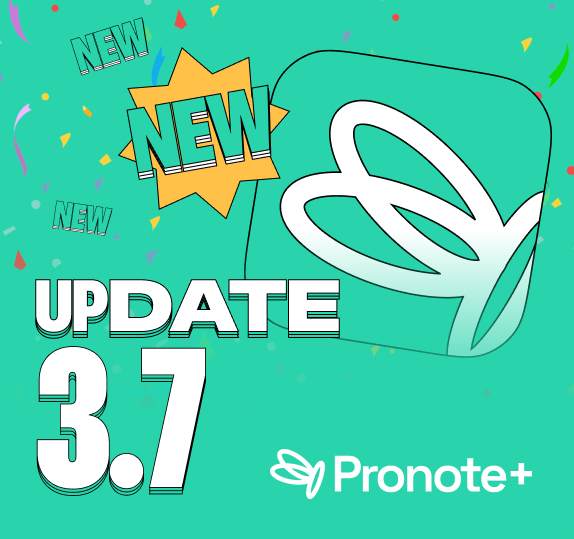
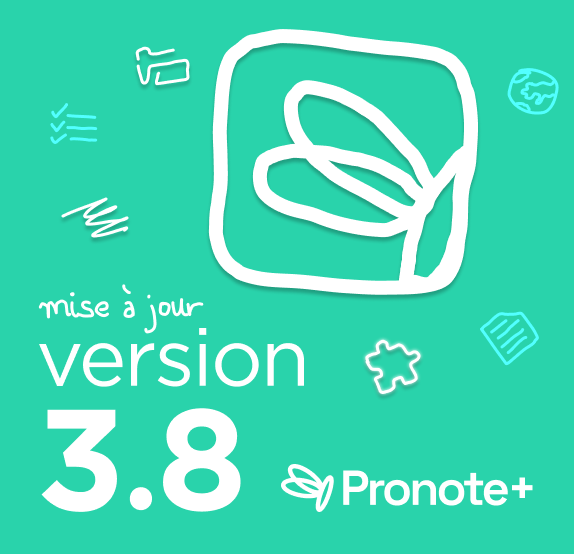
v3.8 | style plus natif pour Android

diff --git a/views/update.html b/views/update.html
@@ -3,43 +3,43 @@
         <img src="../assets/update.png">
     </div>
 
+    <div class="cours file feature" style="--off: 0ms">
+        <span class="material-symbols-outlined">
+            android
+        </span>
+        <div class="cours_topData">
+            <h3>Amélioration de l'interface pour Android</h3>
+            <p>Pour que l'app soit belle pour tous les utilisateurs 😍</p>
+        </div>
+    </div>
+
     <div class="cours file feature" style="--off: 50ms">
         <span class="material-symbols-outlined">
             bug_report
         </span>
         <div class="cours_topData">
-            <h3>Réparation de plein de bugs</h3>
-            <p>Pronote+ fonctionne encore mieux maintenant !</p>
+            <h3>Réparation d'encore plus de bugs</h3>
+            <p>Pronote+ toujours mieux mise à jour après mise à jour !</p>
         </div>
     </div>
 
-    <div class="cours file feature" style="--off: 50ms">
+    <div class="cours file feature" style="--off: 100ms">
         <span class="material-symbols-outlined">
-            domain_verification
+            delete
         </span>
         <div class="cours_topData">
-            <h3>Amélioration de l'interface</h3>
-            <p>Pour une expérience encore plus agréable !</p>
+            <h3>Option pour effacer le cache plus éfficacement</h3>
+            <p>Ne galérez plus pour obtenir les nouvelles mises à jour !</p>
         </div>
     </div>
 
-    <div class="cours file feature" style="--off: 50ms">
-        <span class="material-symbols-outlined">
-            android
-        </span>
-        <div class="cours_topData">
-            <h3>Petits fix pour Android</h3>
-            <p>Car il faut pas oublier ceux qui ont fait des mauvais choix dans la vie, comme celui d'acheter un Samsung 💀</p>
-        </div>
-    </div>
-
-    <div class="cours file feature" style="--off: 50ms">
+    <div class="cours file feature" style="--off: 150ms">
         <span class="material-symbols-outlined">
             extension
         </span>
         <div class="cours_topData">
-            <h3>Extensions (beta)</h3>
-            <p>Oui, vous avez bien entendu ! Vous pourrez (bientôt) étendre les fonctionnalités de Pronote+</p>
+            <h3>Les extensions sortent de bêta !</h3>
+            <p>Les premières extensions officielles vont très bientôt arriver</p>
         </div>
     </div>
 </div>

diff --git a/css/style.css b/css/style.css
@@ -828,6 +828,55 @@ body.menuOpen #appContent {
     border-radius: 300px;
 }
 
+@supports not (-webkit-touch-callout: none) {
+    .cours {
+        background: #fff !important;
+        box-shadow: 0 1px 1px 0 rgba(0,0,0,0.14), 0 2px 1px -1px rgba(0,0,0,0.12), 0 1px 3px 0 rgba(0,0,0,0.20);
+        border-radius: 7px;
+        margin: 10px 0px;
+        animation: show 0.3s var(--off) forwards cubic-bezier(0, 0, 0, 1);
+    }
+
+    .coursleftBar {
+        border-radius: 7px;
+    }
+
+    .teacher {
+        letter-spacing: 1px;
+        text-transform: uppercase;
+    }
+
+    .cours_btmData p {
+        letter-spacing: 0.45px;
+    }
+
+    .tabLink p {
+        letter-spacing: 0.45px;
+    }
+
+    .cours_topData p:not(div) {
+        letter-spacing: 0.45px;
+        font-weight: 500;
+        font-size: 15px !important;
+    }
+
+    body {
+        background: #f9f9f9;
+    }
+
+    #navContent {
+        box-shadow: 0 1px 1px 0 rgba(0,0,0,0.14), 0 2px 1px -1px rgba(0,0,0,0.12), 0 1px 3px 0 rgba(0,0,0,0.20);
+    }
+
+    #menuContent {
+        box-shadow: 0 -1px 1px 0 rgba(0,0,0,0.14), 0 -2px 1px -1px rgba(0,0,0,0.12), 0 -1px 3px 0 rgba(0,0,0,0.20);
+    }
+
+    #profileOver {
+        background: linear-gradient(180deg, #F1F1F390, #f9f9f9f9);
+    }
+}
+
 .subject {
     background-color: #fff;
     box-shadow: 0 1px 1px 0 rgba(0, 0, 0, 0.14), 0 2px 1px -1px rgba(0, 0, 0, 0.12), 0 1px 3px 0 rgba(0, 0, 0, 0.20);

diff --git a/js/app.js b/js/app.js
@@ -687,8 +687,8 @@ for(ext in exts) {
 var latestVersion = localStorage.getItem('latestVersion')
 
 // Version de l'app
-const version = "3.7.2 stable";
-const release = '3.7';
+const version = "3.8 stable";
+const release = '3.8';
 
 // if (release !== latestVersion) {
 
